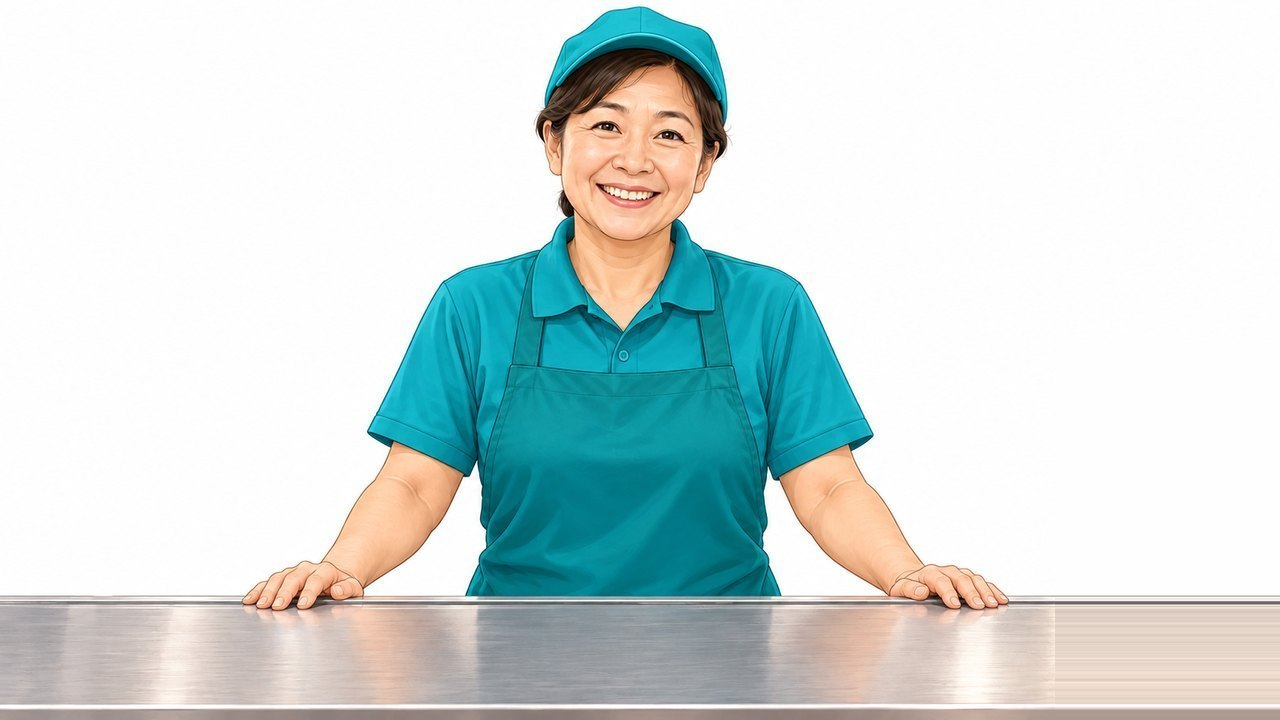
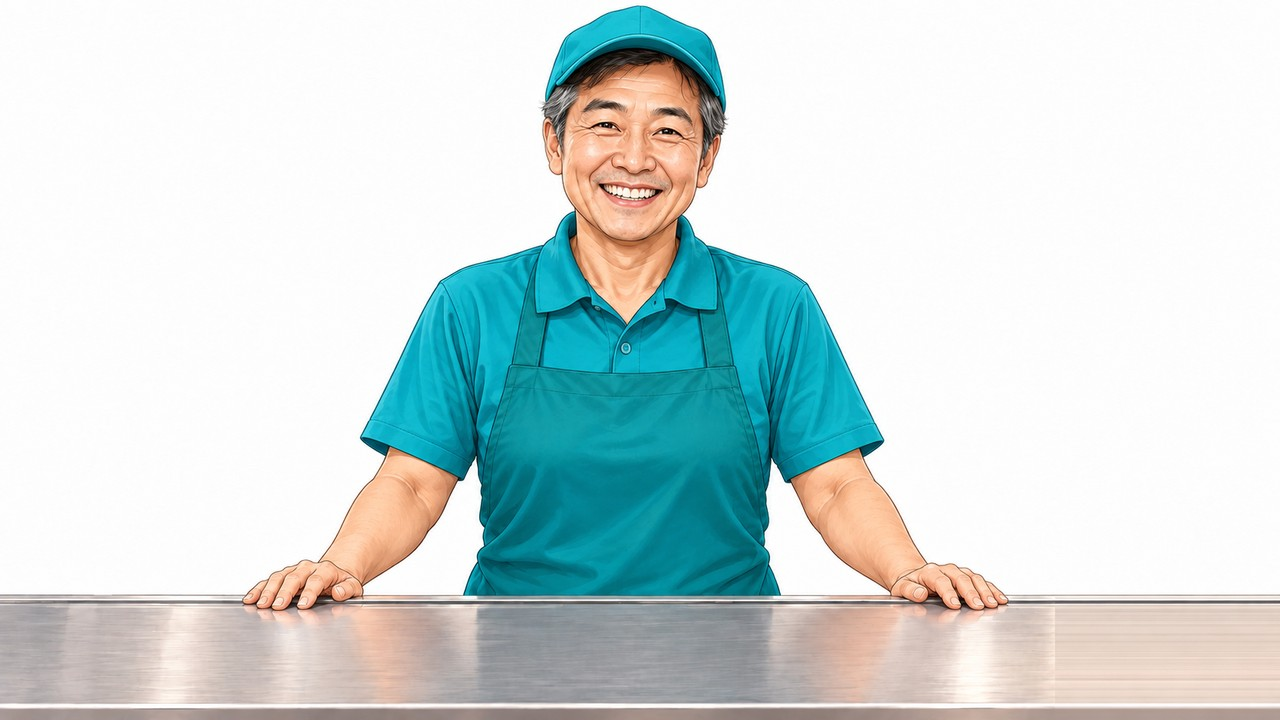
Deploy v136-20261120-cashier-arrive-arm

Changed region(s): [[0.0, 0.0, 1.0, 0.8556], [0.0, 0.9778, 0.7188, 1.0], [0.3125, 0.3667, 0.4062, 0.55]]

diff --git a/index.html b/index.html
@@ -3891,9 +3891,10 @@ html[lang^="en"] .game-stage.patient-simple-hud .action-main{
                 fridgeCrashUntil = 0, fridgeCrashMsg = "", fridgeCrashPoint = null, fridgeRoundTimerId && (clearTimeout(fridgeRoundTimerId), 
                 fridgeRoundTimerId = null), releaseDwellStart = 0, releaseDwellPlate = null, releaseDwellPauseAt = 0, 
                 releaseDwellLastOpenAt = 0, basicOpenStart = 0, basicGraspStart = 0, basicGraspCandidate = "", 
-                basicGraspArmed = !1, basicPostReleaseOpenStart = 0, basicContactCandidate = "", 
-                basicContactUntil = 0, gripActive = !1, isGrasping = !1, handOpenPrep = !1, resetToolPinchAdapt(), 
-                resetPublicPatientVoiceGuideCycle(!0), detectedGestureState = {
+                basicGraspArmed = !1, basicArriveId = "", basicArriveStart = 0, basicArriveArmed = !1, 
+                basicPostReleaseOpenStart = 0, basicContactCandidate = "", basicContactUntil = 0, 
+                gripActive = !1, isGrasping = !1, handOpenPrep = !1, resetToolPinchAdapt(), resetPublicPatientVoiceGuideCycle(!0), 
+                detectedGestureState = {
                     mode: "",
                     stable: !1,
                     candidate: !1,
@@ -4664,7 +4665,7 @@ html[lang^="en"] .game-stage.patient-simple-hud .action-main{
                             score: Math.max(0, Math.min(1, 1 - ratio / Math.max(open, .001))),
                             valid: !0
                         };
-                    }(lm, isGrasping), midX = (lm[4].x + lm[8].x + lm[12].x) / 3, midY = (lm[4].y + lm[8].y + lm[12].y) / 3, bareReopen = level6AutoPlaceEnabled() && !(heldItem || void 0 !== carrier && carrier && carrier.heldId || void 0 !== picker && picker && picker.heldId) && !0 === pinch.valid;
+                    }(lm, isGrasping), midX = (lm[4].x + lm[8].x + lm[12].x) / 3, midY = (lm[4].y + lm[8].y + lm[12].y) / 3, bareReopen = level6AutoPlaceEnabled() && !level6AnyItemHeld() && !0 === pinch.valid;
                     bareReopen && Number.isFinite(pinch.ratio) && pinch.ratio >= pinch.idleReopenMark ? bareUnpinchedSinceMs || (bareUnpinchedSinceMs = nowMs()) : bareUnpinchedSinceMs = 0, 
                     bareReopen && pinch.isPinching && bareUnpinchedSinceMs > 0 && nowMs() - bareUnpinchedSinceMs >= PUBLIC_BARE_REOPEN_PREP_MS && (pinch.isPinching = !1);
                     const pinchHeld = stabiliseDetectedGesture(pinch.isPinching, "pinch");
@@ -4825,6 +4826,20 @@ html[lang^="en"] .game-stage.patient-simple-hud .action-main{
     }
     const PUBLIC_BARE_REOPEN_PREP_MS = 300, PUBLIC_BARE_IDLE_REOPEN_RANGE = .4;
     let bareUnpinchedSinceMs = 0;
+    function level6AnyItemHeld() {
+        return !!(heldItem || void 0 !== carrier && carrier && carrier.heldId || void 0 !== picker && picker && picker.heldId);
+    }
+    const LEVEL6_ARRIVE_ARM_MS = 700;
+    function level6ArriveArmEnabled() {
+        return isLevel6() && isGraspStyleMode() && (level6AutoPlaceEnabled() || isLevel6RealToolTask()) && !level6AnyItemHeld();
+    }
+    function level6ArriveArmPoll(ctl, best, now, canArm) {
+        return best && !best.placed && level6ArriveArmEnabled() ? (ctl.arriveId !== best.id && (ctl.arriveId = best.id, 
+        ctl.arriveStart = now), !1 !== canArm && !ctl.armed && now - ctl.arriveStart >= LEVEL6_ARRIVE_ARM_MS && (ctl.armed = !0, 
+        ctl.arriveArmed = !0), !(!ctl.armed || !ctl.arriveArmed)) : (ctl.arriveId = null, 
+        ctl.arriveStart = 0, ctl.arriveArmed && (ctl.arriveArmed = !1, ctl.armed = !1), 
+        !1);
+    }
     function pegRelativeHoldReset() {
         pegRelative.base = null, pegRelative.holdSince = 0, pegRelative.open = !1;
     }
@@ -6657,7 +6672,7 @@ html[lang^="en"] .game-stage.patient-simple-hud .action-main{
     function shoulderRewardVisualFinished() {
         return shoulderRewardCycle.active && nowMs() >= shoulderRewardCycle.finishAtMs;
     }
-    let shoulderHoldSpokenSecond = null, shoulderHoldInterruptedSpoken = !1, totalWrong = 0, basicOpenStart = 0, basicGraspStart = 0, basicGraspCandidate = "", basicGraspArmed = !1, basicPostReleaseOpenStart = 0, basicContactCandidate = "", basicContactUntil = 0, wrongStreak = 0, timeLeft = 60, gameTimerId = null, foodIdSeq = 1;
+    let shoulderHoldSpokenSecond = null, shoulderHoldInterruptedSpoken = !1, totalWrong = 0, basicOpenStart = 0, basicGraspStart = 0, basicGraspCandidate = "", basicGraspArmed = !1, basicArriveId = "", basicArriveStart = 0, basicArriveArmed = !1, basicPostReleaseOpenStart = 0, basicContactCandidate = "", basicContactUntil = 0, wrongStreak = 0, timeLeft = 60, gameTimerId = null, foodIdSeq = 1;
     function beginLevel4StandardCarry(item) {
         if (!item || !isLevel4StandardTransportGame()) return;
         const matchingTarget = targets.find(target => target.type === item.targetType), pickupX = item.x, pickupFitsTarget = matchingTarget && Math.abs(pickupX - matchingTarget.x) <= matchingTarget.w / 2 + item.r;
@@ -9533,7 +9548,9 @@ html[lang^="en"] .game-stage.patient-simple-hud .action-main{
                             if (isTeahouseDimsumMode() && "idle" !== teahouseServe.phase) continue;
                             ctx.save();
                             const visualR = f.visualR || f.r, visualPoint = publicLevel6HeldDisplayPoint(f.x, f.y, visualR, f.held), drawX = visualPoint.x, drawY = visualPoint.y;
-                            if (f.drawItem) f.drawItem(ctx, drawX, drawY, visualR * (f.drawScale || .92)), drawItemLabel(ctx, f.label, drawX, drawY + visualR * (f.labelGap || 1.04)); else if (f.img && f.img.complete && f.img.naturalWidth > 0) {
+                            if (isLaundryRackGame() && !heldItem && !f.held && basicGraspArmed && basicGraspCandidate === f.id && (ctx.fillStyle = "rgba(224,123,57,0.30)", 
+                            ctx.beginPath(), ctx.arc(drawX, drawY, 1.25 * visualR, 0, 2 * Math.PI), ctx.fill()), 
+                            f.drawItem) f.drawItem(ctx, drawX, drawY, visualR * (f.drawScale || .92)), drawItemLabel(ctx, f.label, drawX, drawY + visualR * (f.labelGap || 1.04)); else if (f.img && f.img.complete && f.img.naturalWidth > 0) {
                                 const iw = f.img.naturalWidth, ih = f.img.naturalHeight, targetMax = 2 * visualR;
                                 let dw, dh;
                                 iw >= ih ? (dw = targetMax, dh = targetMax * ih / iw) : (dh = targetMax, dw = targetMax * iw / ih), 
@@ -9635,7 +9652,7 @@ html[lang^="en"] .game-stage.patient-simple-hud .action-main{
                         el.style.cssText = 'position:fixed;left:8px;bottom:8px;z-index:99998;pointer-events:none;background:rgba(10,20,18,.82);color:#e8fff6;font:12px/1.4 -apple-system,"PingFang TC",sans-serif;padding:6px 9px;border-radius:10px;white-space:pre;', 
                         document.body.appendChild(el), framePerf.overlayEl = el);
                         const p = framePerfSnapshot();
-                        el.textContent = `perf v135  ${p.fps} fps  幀 ${p.frameMs} ms\n追蹤 ${p.trackMs} ms  繪圖 ${p.renderMs} ms  長幀 ${p.longFrames}\n鏡頭 ${p.video[0]}×${p.video[1]}  畫布 ${p.canvas[0]}×${p.canvas[1]}  dpr ${p.dpr}  手模型 ${p.handDelegate || "-"}\n手 ${p.hand.hands} 隻  標籤 ${p.hand.label || "-"} ${p.hand.score}  接納 ${p.hand.path || "-"}  嚴格 ${p.hand.strict} 連續 ${p.hand.continuity} 單手 ${p.hand.lone} 拒絕 ${p.hand.rejected}\n左右手檢查 ${"off" === p.hand.check ? "關" : "開"}  鎖定手形 ${p.hand.lockSize || "-"}  大小拒絕 ${p.hand.sizeRejected}  遠處拒絕 ${p.hand.farRejected}` + (p.tool ? `\n衣夾 近指 ${p.tool.near} 放手≥${p.tool.nearExit} 張開≥${p.tool.nearOpen}  遠指 ${p.tool.far} 放手≥${p.tool.farExit} 張開≥${p.tool.farOpen}  門檻 ${p.tool.source}\n衣夾 合併 ${p.tool.combo} 拎起≤${p.tool.enter} 放手閘≥${p.tool.gate}\n衣夾 相對 基線 近${p.tool.relBaseNear} 遠${p.tool.relBaseFar} 合併${p.tool.relBaseCombo} 相對放手 ${p.tool.relOpen}` : ""), 
+                        el.textContent = `perf v136  ${p.fps} fps  幀 ${p.frameMs} ms\n追蹤 ${p.trackMs} ms  繪圖 ${p.renderMs} ms  長幀 ${p.longFrames}\n鏡頭 ${p.video[0]}×${p.video[1]}  畫布 ${p.canvas[0]}×${p.canvas[1]}  dpr ${p.dpr}  手模型 ${p.handDelegate || "-"}\n手 ${p.hand.hands} 隻  標籤 ${p.hand.label || "-"} ${p.hand.score}  接納 ${p.hand.path || "-"}  嚴格 ${p.hand.strict} 連續 ${p.hand.continuity} 單手 ${p.hand.lone} 拒絕 ${p.hand.rejected}\n左右手檢查 ${"off" === p.hand.check ? "關" : "開"}  鎖定手形 ${p.hand.lockSize || "-"}  大小拒絕 ${p.hand.sizeRejected}  遠處拒絕 ${p.hand.farRejected}` + (p.tool ? `\n衣夾 近指 ${p.tool.near} 放手≥${p.tool.nearExit} 張開≥${p.tool.nearOpen}  遠指 ${p.tool.far} 放手≥${p.tool.farExit} 張開≥${p.tool.farOpen}  門檻 ${p.tool.source}\n衣夾 合併 ${p.tool.combo} 拎起≤${p.tool.enter} 放手閘≥${p.tool.gate}\n衣夾 相對 基線 近${p.tool.relBaseNear} 遠${p.tool.relBaseFar} 合併${p.tool.relBaseCombo} 相對放手 ${p.tool.relOpen}` : ""), 
                         el.style.display = state.running ? "block" : "none";
                     }(perfT2);
                 } catch (e) {
@@ -10267,24 +10284,31 @@ html[lang^="en"] .game-stage.patient-simple-hud .action-main{
             }
             const pickupMargin = isLaundryRackGame() ? 220 : isFridgeGame() ? 210 : isPublicLevel5DimsumLayout() ? 150 : 100, voiceMargin = isLaundryRackGame() ? 260 : isFridgeGame() ? 250 : 150, voiceNearFood = nearest && nearestDist <= pickupContactRadius(nearest.r, voiceMargin);
             let overFood = nearest && nearestDist <= pickupContactRadius(nearest.r, pickupMargin);
+            const directContact = !!overFood;
             if (overFood) basicContactCandidate = nearest.id, basicContactUntil = now + CONTACT_GRACE_MS; else if (basicContactCandidate && now <= basicContactUntil) {
                 const locked = foods.find(f => f.id === basicContactCandidate && !f.removed && !f.held);
                 locked && (nearest = locked, overFood = !0);
             }
-            if (updatePublicPatientVoiceGuide({
+            if (overFood && level6ArriveArmEnabled() ? (basicArriveId !== nearest.id && (basicArriveId = nearest.id, 
+            basicArriveStart = now), directContact && !isGrasping && !basicGraspArmed && now - basicArriveStart >= LEVEL6_ARRIVE_ARM_MS && (basicGraspArmed = !0, 
+            basicArriveArmed = !0, basicGraspCandidate = nearest.id, basicOpenStart = 0)) : (basicArriveId = "", 
+            basicArriveStart = 0, basicArriveArmed && (basicArriveArmed = !1, basicGraspArmed = !1)), 
+            updatePublicPatientVoiceGuide({
                 phase: "contact",
                 item: nearest,
                 touching: !!voiceNearFood,
-                openForPickup: !(!voiceNearFood || isGrasping || !openPrep)
+                openForPickup: !(!voiceNearFood || !(!isGrasping && openPrep || basicArriveArmed && basicGraspArmed))
             }), overFood) if (!isGrasping && openPrep) {
                 basicGraspStart = 0, basicGraspCandidate = nearest.id, basicOpenStart || (basicOpenStart = now);
                 const pct = Math.min(100, Math.round((now - basicOpenStart) / PREP_OPEN_MS * 100));
-                now - basicOpenStart >= PREP_OPEN_MS && (basicGraspArmed = !0), setActionPrompt(graspPrompt(basicGraspArmed ? "hold" : "prep"), basicGraspArmed ? graspPrompt("carry") : pct + "%");
+                now - basicOpenStart >= PREP_OPEN_MS && (basicGraspArmed = !0, basicArriveArmed = !1), 
+                setActionPrompt(graspPrompt(basicGraspArmed ? "hold" : "prep"), basicGraspArmed ? graspPrompt("carry") : pct + "%");
             } else if (!basicGraspArmed || basicGraspCandidate !== nearest.id || openPrep || isGrasping) if (basicGraspArmed && basicGraspCandidate === nearest.id && isGrasping) {
                 basicGraspStart || (basicGraspStart = now, isLevel67GestureMode());
                 const pct = Math.min(100, Math.round((now - basicGraspStart) / GRASP_HOLD_MS * 100));
-                now - basicGraspStart >= GRASP_HOLD_MS ? (nearest.held = !0, heldItem = nearest, 
-                grabCount++, pegRelativeHoldReset(), laundryAutoHangSince = 0, updatePublicPatientVoiceGuide({
+                now - basicGraspStart >= GRASP_HOLD_MS ? (basicArriveId = "", basicArriveStart = 0, 
+                basicArriveArmed = !1, nearest.held = !0, heldItem = nearest, grabCount++, pegRelativeHoldReset(), 
+                laundryAutoHangSince = 0, updatePublicPatientVoiceGuide({
                     phase: "pickup",
                     item: nearest,
                     zones: targets
@@ -10294,8 +10318,8 @@ html[lang^="en"] .game-stage.patient-simple-hud .action-main{
                 basicGraspArmed = !1, basicContactCandidate = "", basicContactUntil = 0, setActionPrompt(graspPrompt("carry"), affectedDirectionLabel())) : setActionPrompt(graspPrompt("hold"), pct + "%");
             } else basicOpenStart = 0, basicGraspStart = 0, basicGraspArmed = !1, setActionPrompt(pickupArmPrompt(), isLevel6Chopsticks() ? "穩定張開後再合埋夾起" : isLevel67GestureMode() ? graspPrompt("hold") : "再輕輕合手"); else basicGraspStart = 0, 
             setActionPrompt(graspPrompt("hold"), "保持指定手指動作"); else basicOpenStart = 0, basicGraspStart = 0, 
-            basicGraspCandidate = "", basicGraspArmed = !1, basicContactCandidate = "", basicContactUntil = 0, 
-            setActionPrompt(basicGraspArmed ? graspPrompt("hold") : pickupArmPrompt(), basicGraspArmed ? graspPrompt("carry") : "穩定張開後再合埋夾起");
+            basicGraspCandidate = "", basicGraspArmed = !1, basicArriveId = "", basicArriveStart = 0, 
+            basicArriveArmed = !1, basicContactCandidate = "", basicContactUntil = 0, setActionPrompt(basicGraspArmed ? graspPrompt("hold") : pickupArmPrompt(), basicGraspArmed ? graspPrompt("carry") : "穩定張開後再合埋夾起");
         }
     }
     function drawItemLabel(ctx, text, x, y) {
@@ -10903,11 +10927,15 @@ html[lang^="en"] .game-stage.patient-simple-hud .action-main{
         contactUntil: 0,
         postReleaseOpenStart: 0,
         autoPlaceStart: 0,
+        arriveId: null,
+        arriveStart: 0,
+        arriveArmed: !1,
         reset() {
             this.hoverId = null, this.start = 0, this.pct = 0, this.armed = !1, this.lock = null, 
             this.startId = null, this.openStart = 0, this.graspStart = 0, this.graspId = null, 
             this.heldId = null, this.relStart = 0, this.relPauseAt = 0, this.relLastOpenAt = 0, 
-            this.contactId = null, this.contactUntil = 0, this.postReleaseOpenStart = 0, this.autoPlaceStart = 0;
+            this.contactId = null, this.contactUntil = 0, this.postReleaseOpenStart = 0, this.autoPlaceStart = 0, 
+            this.arriveId = null, this.arriveStart = 0, this.arriveArmed = !1;
         },
         poll(items, releaseZone) {
             if (this.pct = 0, cursorX < 0 || !handDetected) return this.hoverId = null, this.openStart = 0, 
@@ -10971,31 +10999,38 @@ html[lang^="en"] .game-stage.patient-simple-hud .action-main{
             }
             if (level5PostReleaseOpenLocked(this, now)) return this.hoverId = null, this.start = 0, 
             this.startId = null, this.lock = null, setActionPrompt("已放開", "保持張開手"), null;
-            let best = nearestItem(items);
+            const directContact = nearestItem(items);
+            let best = directContact;
             if (best ? (this.contactId = best.id, this.contactUntil = now + advancedContactGraceMs()) : isGraspStyleMode() && this.contactId && now <= this.contactUntil && (best = items.find(it => it.id === this.contactId && !it.gone) || null), 
             !best) return this.hoverId = null, this.start = 0, this.lock = null, this.graspStart = 0, 
-            this.graspId = null, this.contactId = null, this.contactUntil = 0, isGraspStyleMode() && handReleasedOrOpen() && (this.openStart || (this.openStart = now), 
+            this.graspId = null, this.contactId = null, this.contactUntil = 0, level6ArriveArmPoll(this, null, now), 
+            isGraspStyleMode() && handReleasedOrOpen() && (this.openStart || (this.openStart = now), 
             now - this.openStart >= advancedGraspArmMs() && (this.armed = !0)), isGraspStyleMode() && !this.armed && isLevel6Chopsticks() && setActionPrompt("先張開筷子", "穩定張開後再合埋夾起"), 
             null;
-            if (this.hoverId = best.id, updatePublicPatientVoiceGuide({
+            this.hoverId = best.id;
+            const arrived = level6ArriveArmPoll(this, best, now, !!directContact && !isGrasping);
+            if (updatePublicPatientVoiceGuide({
                 phase: "contact",
                 item: best,
                 touching: !0,
-                openForPickup: !(!isGraspStyleMode() || !handReleasedOrOpen())
+                openForPickup: !(!isGraspStyleMode() || !handReleasedOrOpen() && !arrived)
             }), isGraspStyleMode()) {
                 if (handReleasedOrOpen()) {
                     this.graspStart = 0, this.graspId = null, this.openStart || (this.openStart = now);
                     const armMs = advancedGraspArmMs();
-                    return this.pct = Math.min(1, (now - this.openStart) / armMs), now - this.openStart >= armMs && (this.armed = !0), 
-                    null;
+                    return this.pct = Math.min(1, (now - this.openStart) / armMs), now - this.openStart >= armMs && (this.armed = !0, 
+                    this.arriveArmed = !1), null;
                 }
                 if (this.openStart = 0, !this.armed) return isLevel6Chopsticks() && setActionPrompt("先張開筷子", "穩定張開後再合埋夾起"), 
+                null;
+                if (this.arriveArmed && !isGrasping) return this.graspStart = 0, this.graspId = null, 
                 null;
                 this.graspId !== best.id && (this.graspId = best.id, this.graspStart = now);
                 const holdMs = advancedGraspHoldMs();
                 return this.pct = Math.min(1, (now - this.graspStart) / holdMs), now - this.graspStart >= holdMs && (this.heldId = best.id, 
                 this.armed = !1, this.relStart = 0, this.relPauseAt = 0, this.relLastOpenAt = 0, 
-                this.pct = 0, isLevel6() && grabCount++, updatePublicPatientVoiceGuide({
+                this.pct = 0, isLevel6() && grabCount++, this.arriveId = null, this.arriveStart = 0, 
+                this.arriveArmed = !1, updatePublicPatientVoiceGuide({
                     phase: "pickup",
                     item: best,
                     zones: releaseZone ? [ releaseZone ] : []
@@ -11026,11 +11061,15 @@ html[lang^="en"] .game-stage.patient-simple-hud .action-main{
         contactUntil: 0,
         postReleaseOpenStart: 0,
         autoPlaceStart: 0,
+        arriveId: null,
+        arriveStart: 0,
+        arriveArmed: !1,
         reset() {
             this.heldId = null, this.hoverId = null, this.startId = null, this.start = 0, this.pct = 0, 
             this.armed = !1, this.relStart = 0, this.relPauseAt = 0, this.relLastOpenAt = 0, 
             this.openStart = 0, this.graspStart = 0, this.graspId = null, this.contactId = null, 
-            this.contactUntil = 0, this.postReleaseOpenStart = 0, this.autoPlaceStart = 0;
+            this.contactUntil = 0, this.postReleaseOpenStart = 0, this.autoPlaceStart = 0, this.arriveId = null, 
+            this.arriveStart = 0, this.arriveArmed = !1;
         },
         poll(items, zones) {
             const ev = {
@@ -11050,13 +11089,16 @@ html[lang^="en"] .game-stage.patient-simple-hud .action-main{
             if (!this.heldId) {
                 if (level5PostReleaseOpenLocked(this, now)) return this.hoverId = null, this.startId = null, 
                 this.start = 0, setActionPrompt("已放開", "保持張開手"), ev;
-                let best = nearestItem(items);
-                if (best ? (this.contactId = best.id, this.contactUntil = now + advancedContactGraceMs()) : isGraspStyleMode() && this.contactId && now <= this.contactUntil && (best = items.find(it => it.id === this.contactId && !it.gone) || null), 
-                this.hoverId = best ? best.id : null, updatePublicPatientVoiceGuide({
+                const directContact = nearestItem(items);
+                let best = directContact;
+                best ? (this.contactId = best.id, this.contactUntil = now + advancedContactGraceMs()) : isGraspStyleMode() && this.contactId && now <= this.contactUntil && (best = items.find(it => it.id === this.contactId && !it.gone) || null), 
+                this.hoverId = best ? best.id : null;
+                const arrived = level6ArriveArmPoll(this, best, now, !!directContact && !isGrasping);
+                if (updatePublicPatientVoiceGuide({
                     phase: "contact",
                     item: best,
                     touching: !!best,
-                    openForPickup: !!(best && isGraspStyleMode() && handReleasedOrOpen())
+                    openForPickup: !(!best || !isGraspStyleMode() || !handReleasedOrOpen() && !arrived)
                 }), !best) return this.startId = null, this.graspStart = 0, this.graspId = null, 
                 now > this.contactUntil && (this.contactId = null, this.contactUntil = 0), isGraspStyleMode() && handReleasedOrOpen() && (this.openStart || (this.openStart = now), 
                 now - this.openStart >= advancedGraspArmMs() && (this.armed = !0)), isGraspStyleMode() && !this.armed && isLevel6Chopsticks() && setActionPrompt("先張開筷子", "穩定張開後再合埋夾起"), 
@@ -11065,17 +11107,20 @@ html[lang^="en"] .game-stage.patient-simple-hud .action-main{
                     if (handReleasedOrOpen()) {
                         this.graspStart = 0, this.graspId = null, this.openStart || (this.openStart = now);
                         const armMs = advancedGraspArmMs();
-                        return this.pct = Math.min(1, (now - this.openStart) / armMs), now - this.openStart >= armMs && (this.armed = !0), 
-                        ev;
+                        return this.pct = Math.min(1, (now - this.openStart) / armMs), now - this.openStart >= armMs && (this.armed = !0, 
+                        this.arriveArmed = !1), ev;
                     }
                     if (this.openStart = 0, !this.armed) return isLevel6Chopsticks() && setActionPrompt("先張開筷子", "穩定張開後再合埋夾起"), 
+                    ev;
+                    if (this.arriveArmed && !isGrasping) return this.graspStart = 0, this.graspId = null, 
                     ev;
                     this.graspId !== best.id && (this.graspId = best.id, this.graspStart = now);
                     const holdMs = advancedGraspHoldMs();
                     return this.pct = Math.min(1, (now - this.graspStart) / holdMs), now - this.graspStart >= holdMs && (this.armed = !1, 
                     this.heldId = best.id, this.relStart = 0, this.relPauseAt = 0, this.relLastOpenAt = 0, 
                     this.graspStart = 0, this.graspId = null, this.contactId = null, this.contactUntil = 0, 
-                    this.pct = 0, ev.grab = best.id, updatePublicPatientVoiceGuide({
+                    this.pct = 0, ev.grab = best.id, this.arriveId = null, this.arriveStart = 0, this.arriveArmed = !1, 
+                    updatePublicPatientVoiceGuide({
                         phase: "pickup",
                         item: best,
                         zones: zones
@@ -12683,7 +12728,7 @@ html[lang^="en"] .game-stage.patient-simple-hud .action-main{
 <script src="level4-three-games-module.js"></script>
 <script>
 if ("serviceWorker" in navigator && (location.protocol === "https:" || location.hostname === "localhost" || location.hostname === "127.0.0.1")) {
-  const LEVEL_APP_BUILD = "v135-20261119-digiflex-calib-optional";
+  const LEVEL_APP_BUILD = "v136-20261120-cashier-arrive-arm";
   const levelAppHadController = Boolean(navigator.serviceWorker.controller);
   let levelAppReloading = false;
 

diff --git a/service-worker.js b/service-worker.js
@@ -1,4 +1,4 @@
-const CACHE_VERSION = "fthue-rehab-v135-20261119-digiflex-calib-optional";
+const CACHE_VERSION = "fthue-rehab-v136-20261120-cashier-arrive-arm";
 const OFFLINE_PAGE = "./offline.html";
 
 importScripts("./offline-assets.js");
